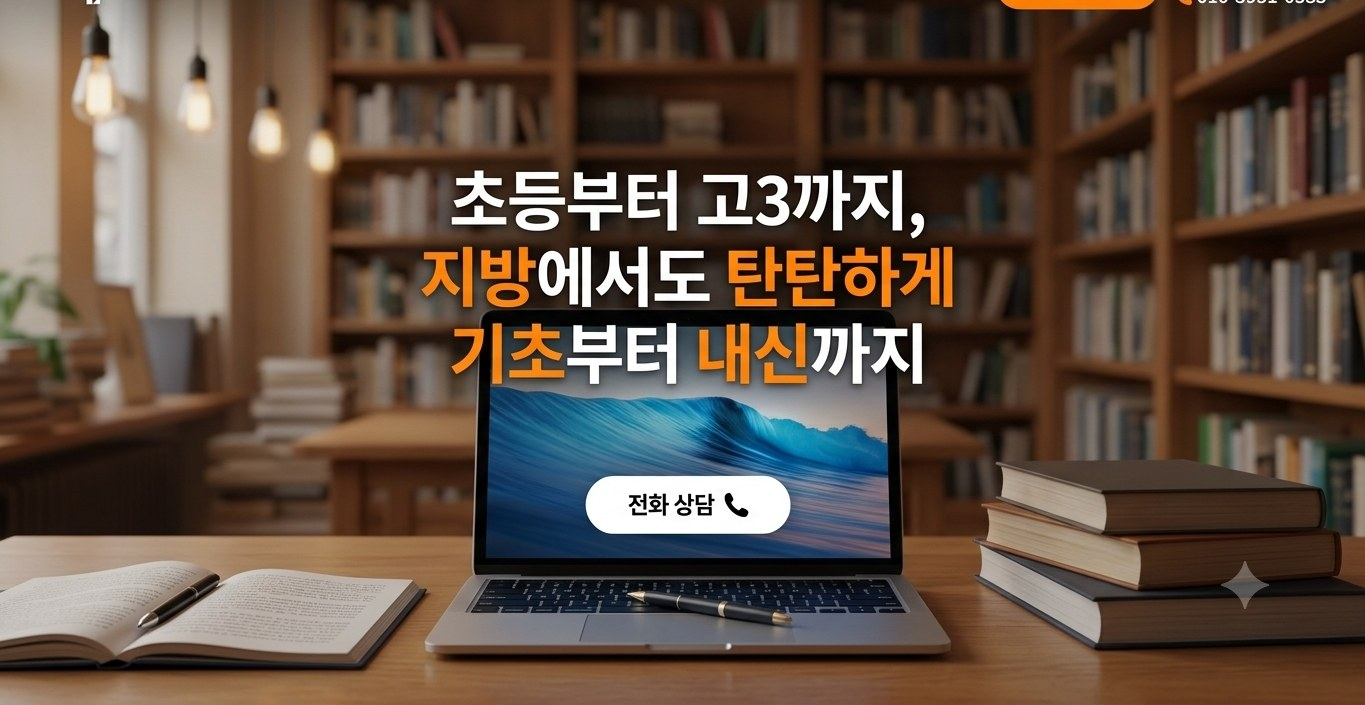
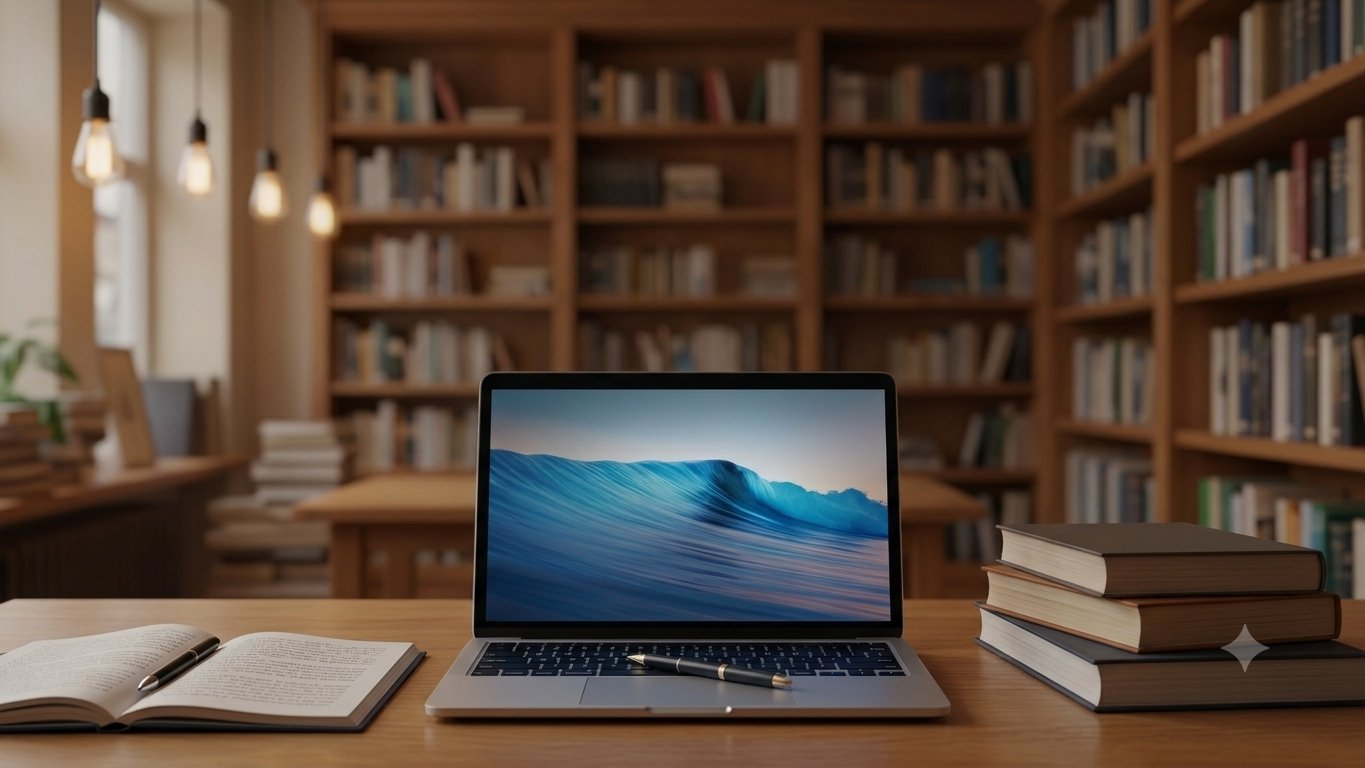
디자인: 히어로 배경을 블러 없는 깔끔한 도서관 사진으로 교체
새 사진에는 가짜 텍스트가 없어 블러 처리 없이 좌우 그라데이션
오버레이만으로 텍스트 가독성을 확보했습니다. 캐시버스팅 버전도 갱신.

diff --git a/assets/site.css b/assets/site.css
@@ -92,12 +92,11 @@ header{
 .breadcrumb .sep{margin:0 6px;}
 
 /* ---------- Hero ---------- */
-.hero{background:var(--navy); color:#fff; position:relative; overflow:hidden;}
-.hero::after{
-  content:''; position:absolute; inset:-12px;
-  background:url('/assets/hero-bg.jpg') center/cover no-repeat;
-  filter:blur(14px) brightness(0.5) saturate(1.05);
-  z-index:0;
+.hero{
+  background:
+    linear-gradient(100deg, rgba(20,33,58,0.94) 0%, rgba(20,33,58,0.84) 40%, rgba(20,33,58,0.5) 100%),
+    url('/assets/hero-bg.jpg') center/cover no-repeat;
+  color:#fff; position:relative; overflow:hidden;
 }
 .hero::before{
   content:''; position:absolute; inset:0; z-index:1;

diff --git a/curriculum.html b/curriculum.html
@@ -30,7 +30,7 @@
 <link rel="preconnect" href="https://fonts.googleapis.com">
 <link rel="preconnect" href="https://fonts.gstatic.com" crossorigin>
 <link href="https://fonts.googleapis.com/css2?family=Pretendard:wght@400;500;600;700;800&display=swap" rel="stylesheet">
-<link rel="stylesheet" href="/assets/site.css?v=20260915">
+<link rel="stylesheet" href="/assets/site.css?v=20260915b">
 </head>
 <body>
 

diff --git a/faq.html b/faq.html
@@ -48,7 +48,7 @@
 <link rel="preconnect" href="https://fonts.googleapis.com">
 <link rel="preconnect" href="https://fonts.gstatic.com" crossorigin>
 <link href="https://fonts.googleapis.com/css2?family=Pretendard:wght@400;500;600;700;800&display=swap" rel="stylesheet">
-<link rel="stylesheet" href="/assets/site.css?v=20260915">
+<link rel="stylesheet" href="/assets/site.css?v=20260915b">
 </head>
 <body>
 

diff --git a/index.html b/index.html
@@ -69,7 +69,7 @@
 <link rel="preconnect" href="https://fonts.googleapis.com">
 <link rel="preconnect" href="https://fonts.gstatic.com" crossorigin>
 <link href="https://fonts.googleapis.com/css2?family=Pretendard:wght@400;500;600;700;800&display=swap" rel="stylesheet">
-<link rel="stylesheet" href="/assets/site.css?v=20260915">
+<link rel="stylesheet" href="/assets/site.css?v=20260915b">
 </head>
 <body>
 

diff --git a/news.html b/news.html
@@ -30,7 +30,7 @@
 <link rel="preconnect" href="https://fonts.googleapis.com">
 <link rel="preconnect" href="https://fonts.gstatic.com" crossorigin>
 <link href="https://fonts.googleapis.com/css2?family=Pretendard:wght@400;500;600;700;800&display=swap" rel="stylesheet">
-<link rel="stylesheet" href="/assets/site.css?v=20260915">
+<link rel="stylesheet" href="/assets/site.css?v=20260915b">
 </head>
 <body>
 

diff --git a/process.html b/process.html
@@ -30,7 +30,7 @@
 <link rel="preconnect" href="https://fonts.googleapis.com">
 <link rel="preconnect" href="https://fonts.gstatic.com" crossorigin>
 <link href="https://fonts.googleapis.com/css2?family=Pretendard:wght@400;500;600;700;800&display=swap" rel="stylesheet">
-<link rel="stylesheet" href="/assets/site.css?v=20260915">
+<link rel="stylesheet" href="/assets/site.css?v=20260915b">
 </head>
 <body>
 

diff --git a/reviews.html b/reviews.html
@@ -30,7 +30,7 @@
 <link rel="preconnect" href="https://fonts.googleapis.com">
 <link rel="preconnect" href="https://fonts.gstatic.com" crossorigin>
 <link href="https://fonts.googleapis.com/css2?family=Pretendard:wght@400;500;600;700;800&display=swap" rel="stylesheet">
-<link rel="stylesheet" href="/assets/site.css?v=20260915">
+<link rel="stylesheet" href="/assets/site.css?v=20260915b">
 </head>
 <body>
 

diff --git a/roadmap.html b/roadmap.html
@@ -30,7 +30,7 @@
 <link rel="preconnect" href="https://fonts.googleapis.com">
 <link rel="preconnect" href="https://fonts.gstatic.com" crossorigin>
 <link href="https://fonts.googleapis.com/css2?family=Pretendard:wght@400;500;600;700;800&display=swap" rel="stylesheet">
-<link rel="stylesheet" href="/assets/site.css?v=20260915">
+<link rel="stylesheet" href="/assets/site.css?v=20260915b">
 </head>
 <body>
 

diff --git a/specialschools.html b/specialschools.html
@@ -30,7 +30,7 @@
 <link rel="preconnect" href="https://fonts.googleapis.com">
 <link rel="preconnect" href="https://fonts.gstatic.com" crossorigin>
 <link href="https://fonts.googleapis.com/css2?family=Pretendard:wght@400;500;600;700;800&display=swap" rel="stylesheet">
-<link rel="stylesheet" href="/assets/site.css?v=20260915">
+<link rel="stylesheet" href="/assets/site.css?v=20260915b">
 </head>
 <body>
 

diff --git a/teachers.html b/teachers.html
@@ -30,7 +30,7 @@
 <link rel="preconnect" href="https://fonts.googleapis.com">
 <link rel="preconnect" href="https://fonts.gstatic.com" crossorigin>
 <link href="https://fonts.googleapis.com/css2?family=Pretendard:wght@400;500;600;700;800&display=swap" rel="stylesheet">
-<link rel="stylesheet" href="/assets/site.css?v=20260915">
+<link rel="stylesheet" href="/assets/site.css?v=20260915b">
 </head>
 <body>
 
